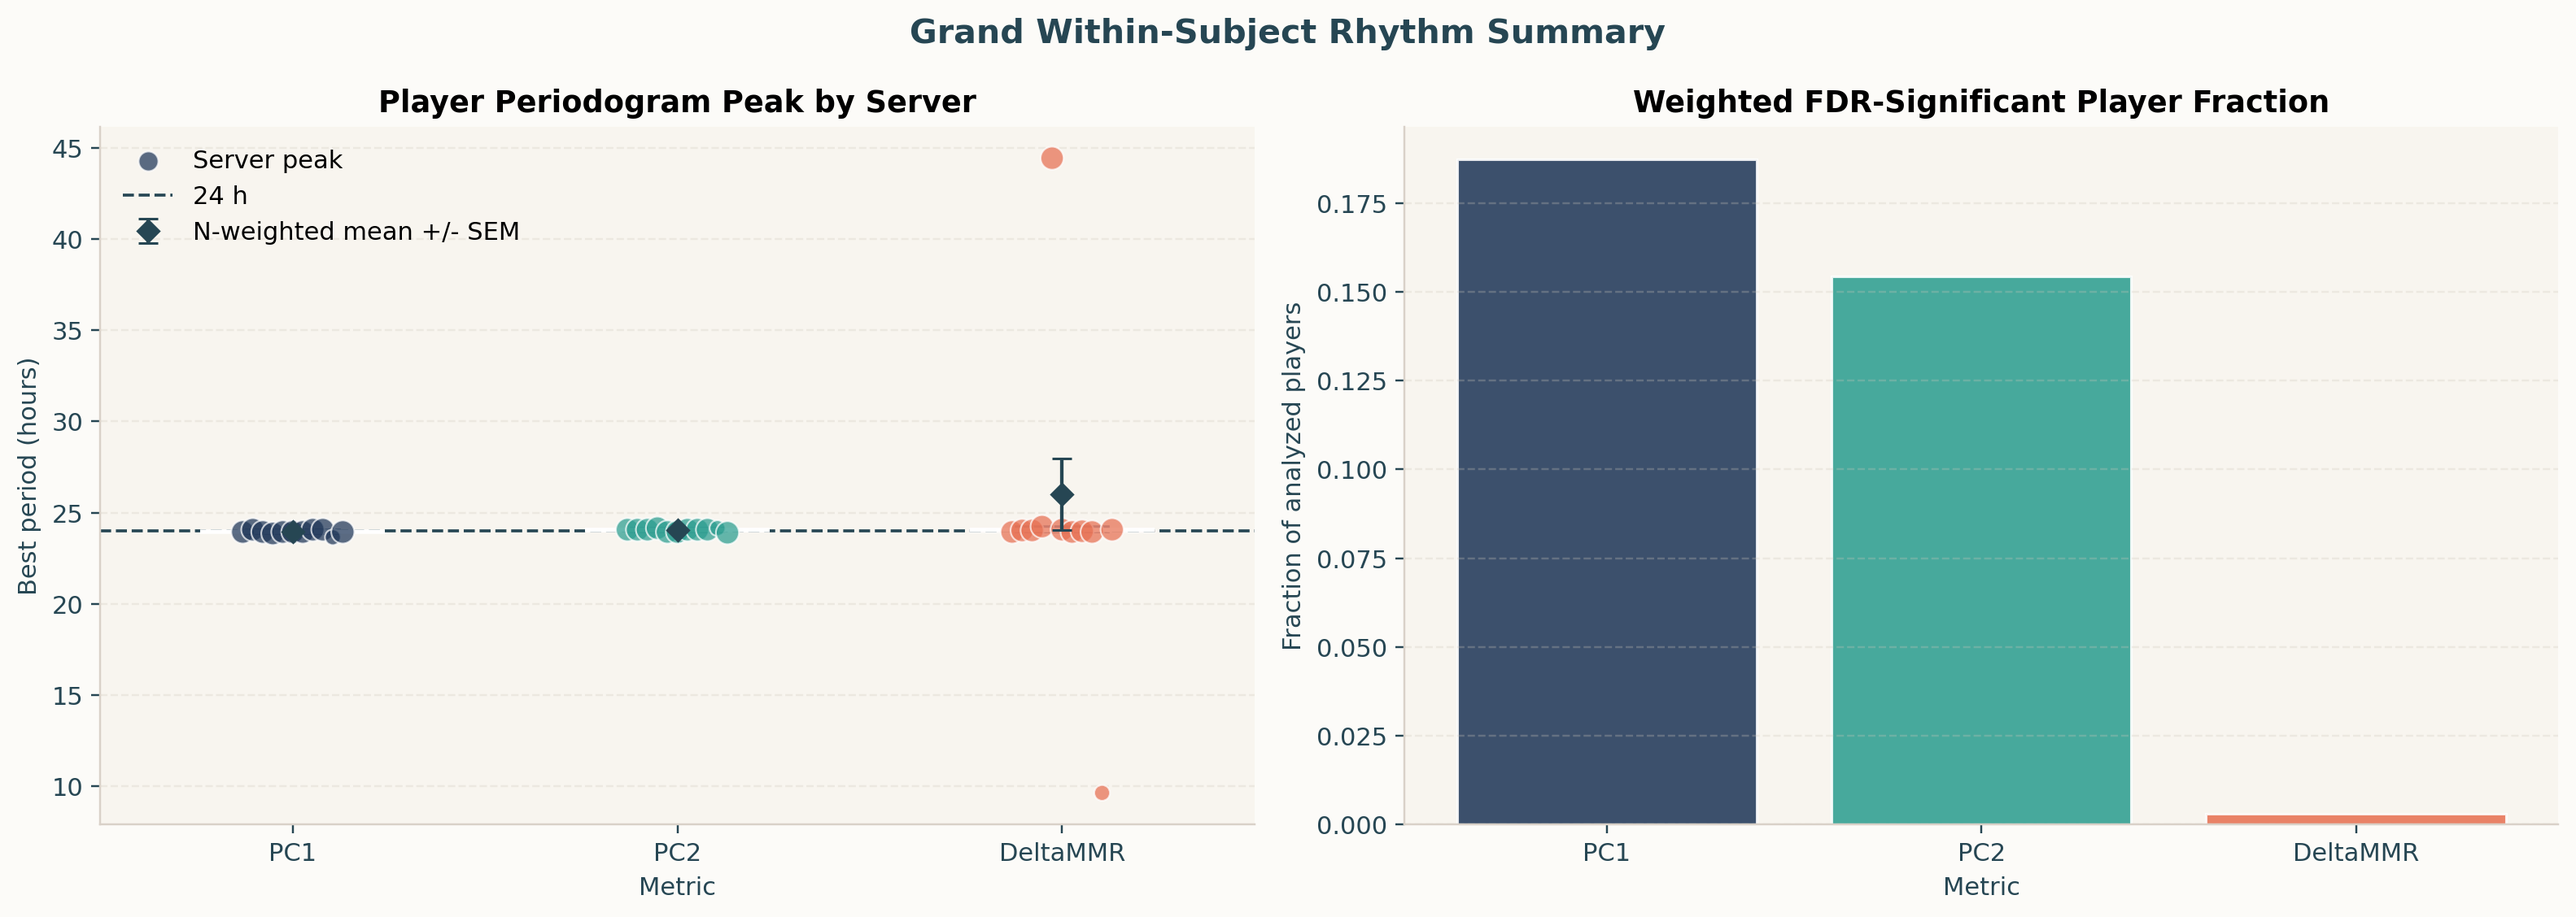
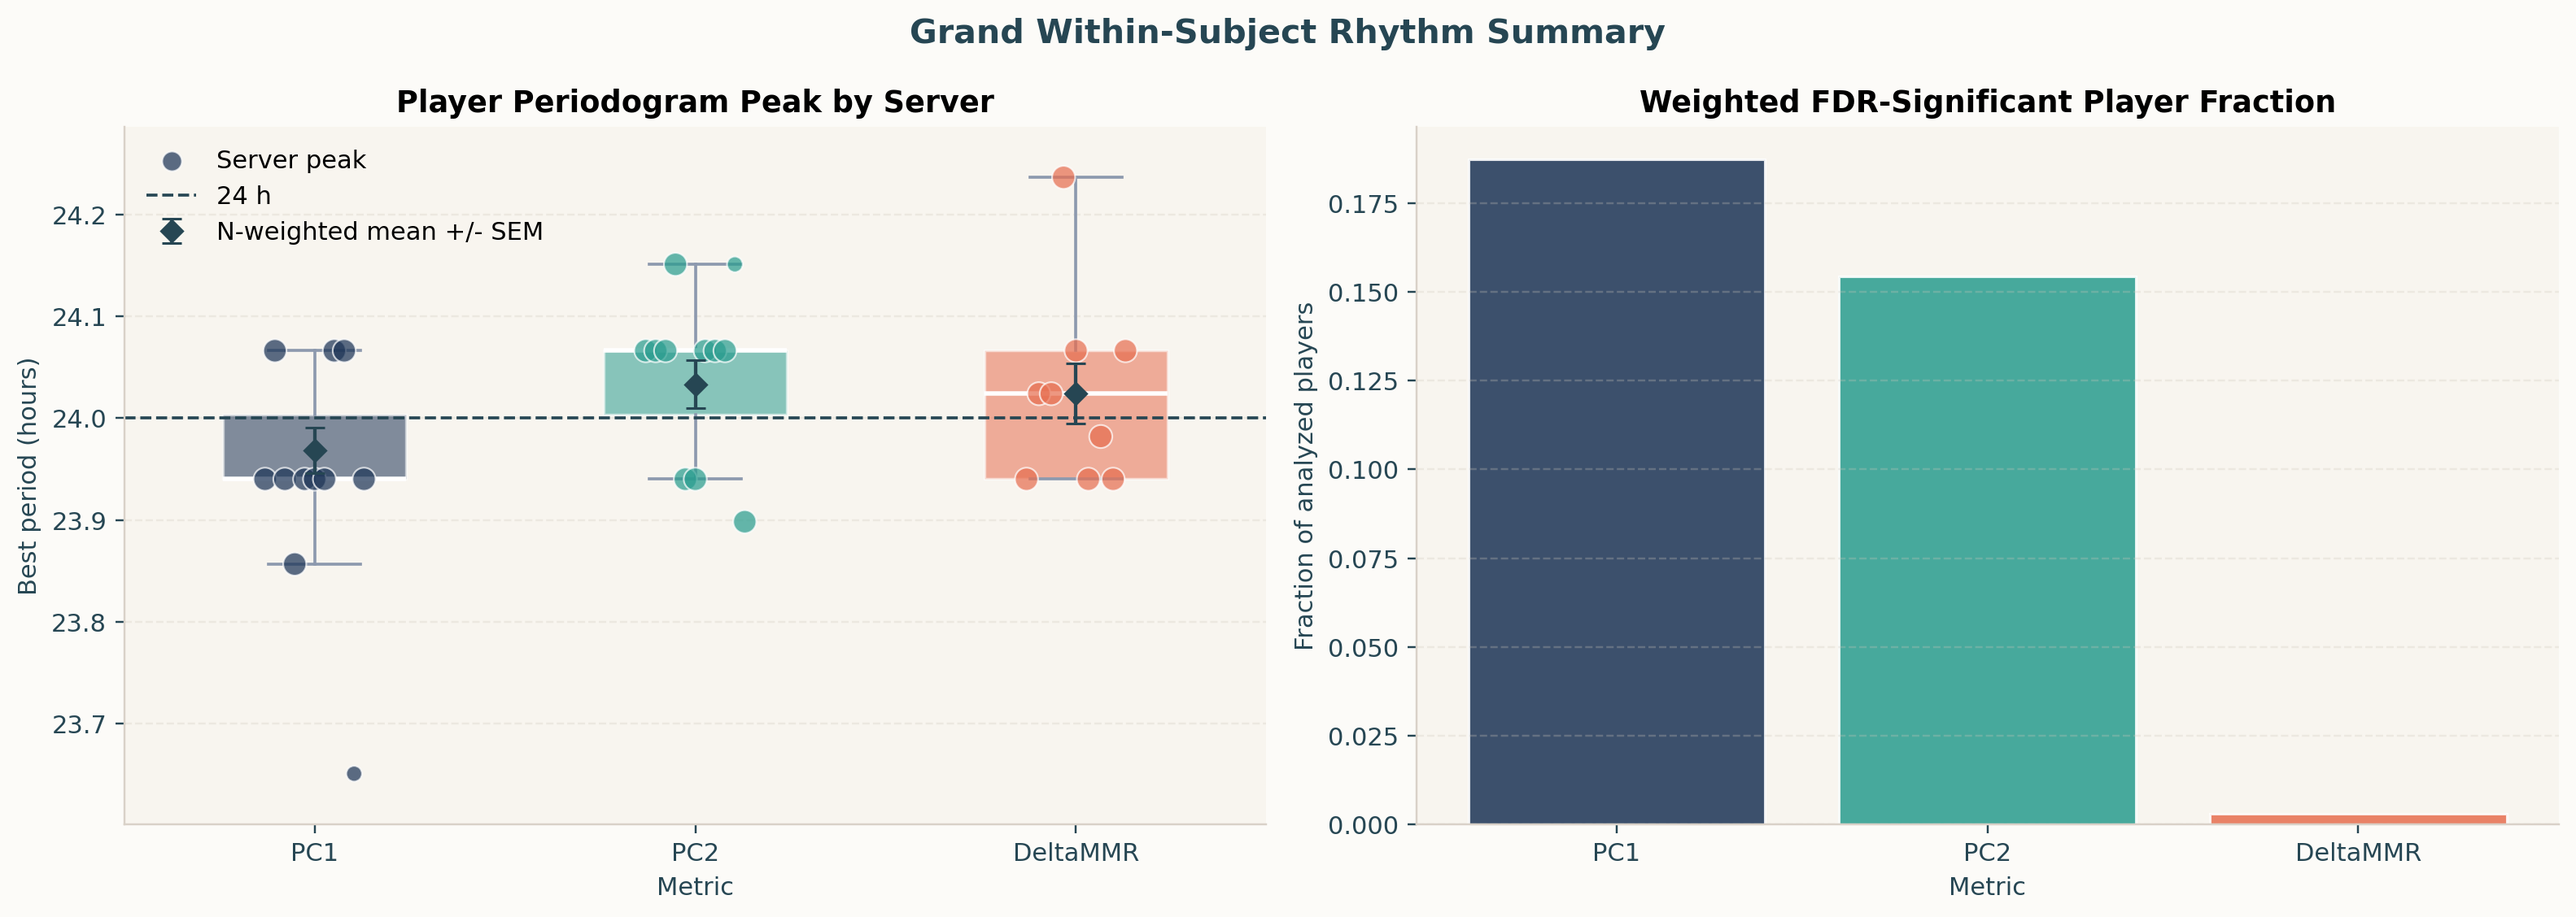
Restore by-server periodogram boxplot with tight y-limits
Keep the boxplot panel in the within-subject summary while excluding the
DeltaMMR outliers (JP1, PBE1) from the data, and add data-driven y-limits
so the outlier-free peaks fill the panel.

diff --git a/results/GRAND/grand_final_report.html b/results/GRAND/grand_final_report.html
@@ -213,12 +213,12 @@
     </tr>
     <tr>
       <td>DeltaMMR</td>
-      <td>11</td>
+      <td>9</td>
       <td>valid_players</td>
-      <td>10043</td>
-      <td>25.994</td>
-      <td>6.200</td>
-      <td>1.952</td>
+      <td>9000</td>
+      <td>24.024</td>
+      <td>0.089</td>
+      <td>0.030</td>
     </tr>
   </tbody>
 </table>

diff --git a/grand_analysis.py b/grand_analysis.py
@@ -1026,6 +1026,15 @@ def plot_periods_and_phases(
         zorder=4,
     )
     ax.axhline(24.0, color=COLORS["ink"], linestyle="--", linewidth=1.2, label="24 h")
+
+    # Tight, data-driven y-limits so the (outlier-free) peaks fill the panel.
+    all_periods = pd.to_numeric(periodograms["best_period"], errors="coerce").dropna() if not periodograms.empty else pd.Series(dtype=float)
+    if not all_periods.empty:
+        lo = min(all_periods.min(), 24.0)
+        hi = max(all_periods.max(), 24.0)
+        pad = max((hi - lo) * 0.08, 0.05)
+        ax.set_ylim(lo - pad, hi + pad)
+
     ax.set_title("Player Periodogram Peak by Server")
     ax.set_xlabel("Metric")
     ax.set_ylabel("Best period (hours)")

diff --git a/results/GRAND/grand_summary.md b/results/GRAND/grand_summary.md
@@ -26,7 +26,7 @@ This is an across-server meta-analysis. Server-level outputs are summarized firs
 | --- | --- | --- | --- | --- | --- | --- |
 | PC1 | 11 | valid_players | 10043 | 23.968 | 0.071 | 0.022 |
 | PC2 | 11 | valid_players | 10043 | 24.033 | 0.075 | 0.024 |
-| DeltaMMR | 11 | valid_players | 10043 | 25.994 | 6.200 | 1.952 |
+| DeltaMMR | 9 | valid_players | 9000 | 24.024 | 0.089 | 0.030 |
 
 ## FDR Phase Counts
 
